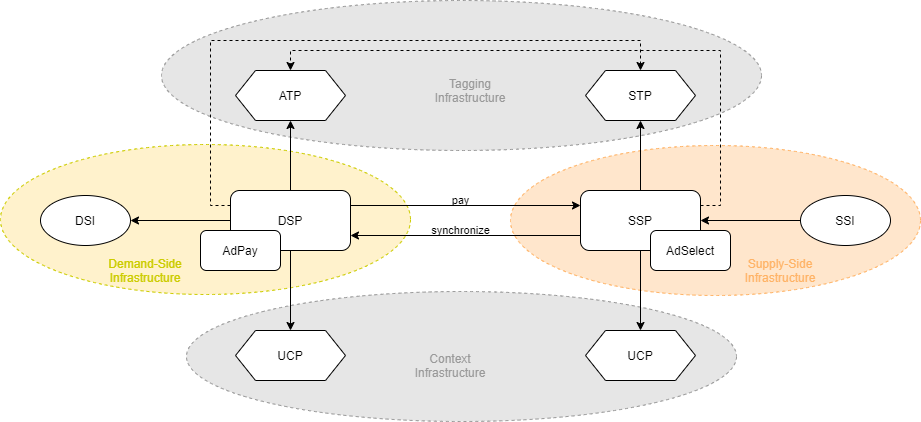
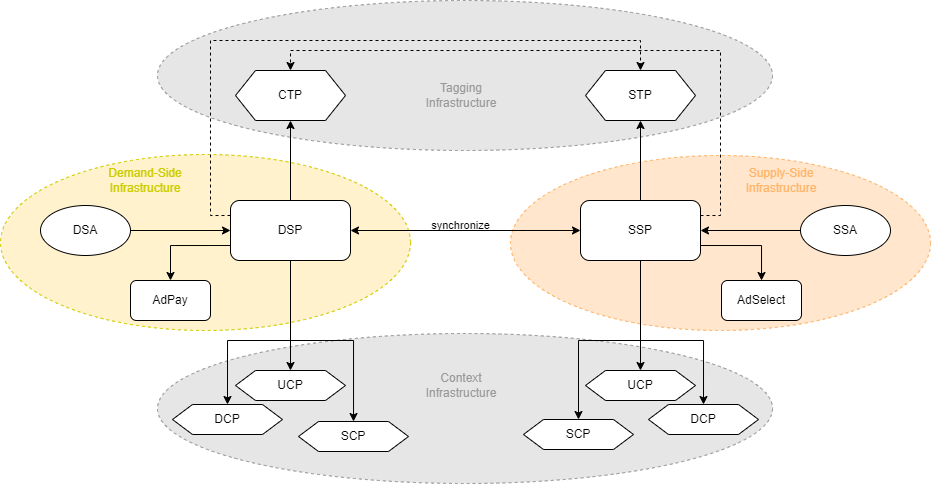
more symmetry & clarity

diff --git a/protocol2/impressions/index2.rst b/protocol2/impressions/index2.rst
@@ -1,0 +1,85 @@
+Impressions
+===========
+
+.. _protocol-impressions:
+
+User navigates to a website or parcel
+-------------------------------------
+
+The following process takes place when a :ref:`User <protocol-definitions-user>` initially navigates to a :ref:`Site <protocol-definitions-site>`:
+
+.. container:: protocol
+
+    * :ref:`SSA <protocol-definitions-ssa>` notifies :ref:`SSP <protocol-definitions-ssp>` about :ref:`Register Event <protocol-definitions-registerevent>`.
+    * In response to the event notification call, :ref:`SSP <protocol-definitions-ssp>` returns its choice of three :ref:`Context Infrastructure <protocol-definitions-contextinfrastructure>` endpoints, i.e. a :ref:`UCP <protocol-definitions-ucp>` endpoint, an :ref:`SCP <protocol-definitions-scp>` endpoint and a :ref:`DCP <protocol-definitions-dcp>` endpoint.
+    * Using the above endpoints, :ref:`SSA <protocol-definitions-ssa>` notifies :ref:`UCP <protocol-definitions-ucp>`, :ref:`SCP <protocol-definitions-scp>` and :ref:`DCP <protocol-definitions-dcp>` about :ref:`Register Event <protocol-definitions-registerevent>`.
+    * In response to the event notification call, each instance of the :ref:`Context Infrastructure <protocol-definitions-contextinfrastructure>` returns its own :ref:`Context Script <protocol-definitions-contextscript>`, and :ref:`SSA <protocol-definitions-ssa>` makes an attempt to execute those scripts within its sandbox.
+
+User browses through a website or parcel
+----------------------------------------
+
+The following process takes place when a :ref:`User <protocol-definitions-user>` browses through a :ref:`Site <protocol-definitions-site>`:
+
+.. container:: protocol
+
+    * :ref:`SSA <protocol-definitions-ssa>` calls :ref:`SSP <protocol-definitions-ssp>` to get a list of :ref:`Creatives <protocol-definitions-creative>` to be displayed in all available :ref:`Placements <protocol-definitions-placement>`.
+    * Prior to generating the requested list, :ref:`SSP <protocol-definitions-ssp>` calls :ref:`Context Infrastructure <protocol-definitions-contextinfrastructure>` to retrieve :ref:`Context Data <protocol-definitions-contextdata>`. Then :ref:`SSP <protocol-definitions-ssp>` replies to :ref:`SSA <protocol-definitions-ssa>` with a list of metadata for :ref:`Creatives <protocol-definitions-creative>`. 
+
+.. note::
+    The list of :ref:`Creatives <protocol-definitions-creative>` is generated by :ref:`SSP <protocol-definitions-ssp>` using information already cached there, without engaging any the :ref:`DSPs <protocol-definitions-dsp>`. This is possible due to the fact that :ref:`SSP <protocol-definitions-ssp>` has already retrieved all the relevant :ref:`Demand-Side Inventories <protocol-definitions-demandinventory>` during the synchronization stage.
+
+Among other things, the metadata for each :ref:`Creative <protocol-definitions-creative>` contains three :ref:`DSP <protocol-definitions-dsp>` endpoints:
+
+.. container:: protocol
+
+    * An endpoint for retrieving :ref:`Creative Content <protocol-definitions-creativecontent>`
+    * An endpoint for notifying about :ref:`View Event <protocol-definitions-viewevent>`
+    * An endpoint for notifying about :ref:`Click Event <protocol-definitions-clickevent>`
+
+This implies that each :ref:`Creative <protocol-definitions-creative>` in the list can be associated with its own :ref:`DSP <protocol-definitions-dsp>`. As a result, :ref:`Creatives <protocol-definitions-creative>` managed by various :ref:`DSPs <protocol-definitions-dsp>` can be displayed next to each other within the same :ref:`Site <protocol-definitions-site>`.
+
+.. note::
+    The above process can be repeated periodically in a loop that ensures that :ref:`Creatives <protocol-definitions-creative>` are swapped periodically within the same :ref:`Placement <protocol-definitions-placement>`. 
+    Such a loop aims to maximize utilization of :ref:`Placements <protocol-definitions-placement>` by displaying multiple :ref:`Creatives <protocol-definitions-creative>` sequentially.
+
+At this stage, metadata for all :ref:`Creatives <protocol-definitions-creative>` is already retrieved, but none of them is rendered, 
+as :ref:`SSA <protocol-definitions-ssa>` has not fetched :ref:`Creative Content <protocol-definitions-creativecontent>` yet. 
+The following sequence of events occurres for each :ref:`Creative <protocol-definitions-creative>` to fetch :ref:`Creative Content <protocol-definitions-creativecontent>` 
+and display it in the designated :ref:`Placement <protocol-definitions-placement>`:
+
+.. container:: protocol
+
+    * Using the endpoint contained in the metadata, :ref:`SSA <protocol-definitions-ssa>` calls :ref:`DSP <protocol-definitions-dsp>` to retrieve :ref:`Creative Content <protocol-definitions-creativecontent>`.
+    * :ref:`SSA <protocol-definitions-ssa>` receives the requested :ref:`Creative Content <protocol-definitions-creativecontent>`.
+    
+Before a :ref:`Creative <protocol-definitions-creative>` is actually rendered, :ref:`SSA <protocol-definitions-ssa>` 
+compares the hash of the received :ref:`Creative Content <protocol-definitions-creativecontent>` with the hash contained in the metadata - 
+to ensure that the :ref:`Creative Content <protocol-definitions-creativecontent>` matches what was initially approved when the :ref:`Campaign <protocol-definitions-campaign>` was launched.
+Assuming the above hashes match, :ref:`SSA <protocol-definitions-ssa>` renders the :ref:`Creative <protocol-definitions-creative>` on the screen, so that the :ref:`User <protocol-definitions-user>` can see it.
+
+The following sequence of events occurres for each :ref:`Creative <protocol-definitions-creative>` to ensure that 
+both :ref:`SSP <protocol-definitions-ssp>` and :ref:`DSP <protocol-definitions-dsp>` are simultaneously notified, so that their states remain synchronized:
+
+.. container:: protocol
+
+    * :ref:`SSA <protocol-definitions-ssa>` notifies :ref:`SSP <protocol-definitions-ssp>` about :ref:`View Event <protocol-definitions-viewevent>`.
+    * Using the endpoint contained in the metadata, :ref:`SSA <protocol-definitions-ssa>` notifies :ref:`DSP <protocol-definitions-dsp>` about :ref:`View Event <protocol-definitions-viewevent>`.
+    * In response to the event notification call, :ref:`DSP <protocol-definitions-dsp>` returns its choice of three :ref:`Context Infrastructure <protocol-definitions-contextinfrastructure>` endpoints, i.e. a :ref:`UCP <protocol-definitions-ucp>` endpoint, an :ref:`SCP <protocol-definitions-scp>` endpoint and a :ref:`DCP <protocol-definitions-dcp>` endpoint.
+
+And finally, :ref:`DSP <protocol-definitions-dsp>`'s :ref:`Context Infrastructure <protocol-definitions-contextinfrastructure>` is updated as well:
+
+.. container:: protocol
+
+    * Using the above endpoints, :ref:`SSA <protocol-definitions-ssa>` notifies :ref:`UCP <protocol-definitions-ucp>`, :ref:`SCP <protocol-definitions-scp>` and :ref:`DCP <protocol-definitions-dcp>` about :ref:`Register Event <protocol-definitions-registerevent>`.
+    * In response to the event notification call, each instance of the :ref:`Context Infrastructure <protocol-definitions-contextinfrastructure>` returns its own :ref:`Context Scripts <protocol-definitions-contextscript>`, and :ref:`SSA <protocol-definitions-ssa>` makes an attempt to execute those scripts within its sandbox.
+
+User clicks on an ad
+--------------------
+
+The following process takes place when a :ref:`User <protocol-definitions-user>` clicks on any of the displayed :ref:`Creatives <protocol-definitions-creative>`, assuming they are clickable:
+
+.. container:: protocol
+
+    * :ref:`SSA <protocol-definitions-ssa>` notifies :ref:`SSP <protocol-definitions-ssp>` about :ref:`Click Event <protocol-definitions-clickevent>`.
+    * Using the endpoint contained in the metadata, :ref:`SSA <protocol-definitions-ssa>` notifies :ref:`DSP <protocol-definitions-dsp>` about :ref:`Click Event <protocol-definitions-clickevent>`.
+    * Using its internal mapping, :ref:`DSP <protocol-definitions-dsp>` redirects the :ref:`Click Event <protocol-definitions-clickevent>` to the :ref:`Target <protocol-definitions-target>`, so that in effect :ref:`User <protocol-definitions-user>` navigates from the :ref:`Site <protocol-definitions-site>` to the :ref:`Target <protocol-definitions-target>`. Optionally, :ref:`DSA <protocol-definitions-dsa>` responds to :ref:`DSP <protocol-definitions-dsp>` to report that a :ref:`Conversion Event <protocol-definitions-conversionevent>` has occurred.

diff --git a/protocol2/impressions/index.rst b/protocol2/impressions/index.rst
@@ -3,8 +3,8 @@ Impressions
 
 .. _protocol-impressions:
 
-User navigates to Site
-----------------------
+User navigates to a website or parcel
+-------------------------------------
 
 The following process takes place when a :ref:`User <protocol-definitions-user>` initially navigates to a :ref:`Site <protocol-definitions-site>`:
 
@@ -15,8 +15,8 @@ The following process takes place when a :ref:`User <protocol-definitions-user>`
     * Using the above endpoints, :ref:`SSA <protocol-definitions-ssa>` notifies :ref:`Context Infrastructure <protocol-definitions-contextinfrastructure>` about the :ref:`Register Event <protocol-definitions-registerevent>`.
     * In response to the event notification call, each instance of the :ref:`Context Infrastructure <protocol-definitions-contextinfrastructure>` returns its own :ref:`Context Script <protocol-definitions-contextscript>`, and :ref:`SSA <protocol-definitions-ssa>` makes an attempt to execute those scripts within its sandbox.
 
-User browses through Site
--------------------------
+User browses through a website or parcel
+----------------------------------------
 
 The following process takes place when a :ref:`User <protocol-definitions-user>` browses through a :ref:`Site <protocol-definitions-site>`:
 
@@ -24,6 +24,9 @@ The following process takes place when a :ref:`User <protocol-definitions-user>`
 
     * :ref:`SSA <protocol-definitions-ssa>` calls :ref:`SSP <protocol-definitions-ssp>` to get a list of :ref:`Creatives <protocol-definitions-creative>` to be displayed in all available :ref:`Placements <protocol-definitions-placement>`.
     * Prior to generating the requested list, :ref:`SSP <protocol-definitions-ssp>` calls :ref:`Context Infrastructure <protocol-definitions-contextinfrastructure>` to retrieve :ref:`Context Data <protocol-definitions-contextdata>`. Then :ref:`SSP <protocol-definitions-ssp>` replies to :ref:`SSA <protocol-definitions-ssa>` with a list of metadata for :ref:`Creatives <protocol-definitions-creative>`. 
+
+.. note::
+    The list of :ref:`Creatives <protocol-definitions-creative>` is generated by :ref:`SSP <protocol-definitions-ssp>` using information already cached there, without engaging any the :ref:`DSPs <protocol-definitions-dsp>`. This is possible due to the fact that :ref:`SSP <protocol-definitions-ssp>` has already retrieved all the relevant :ref:`Demand-Side Inventories <protocol-definitions-demandinventory>` during the synchronization stage.
 
 Among other things, the metadata for each :ref:`Creative <protocol-definitions-creative>` contains three :ref:`DSP <protocol-definitions-dsp>` endpoints:
 
@@ -34,9 +37,6 @@ Among other things, the metadata for each :ref:`Creative <protocol-definitions-c
     * An endpoint for notifying that a :ref:`Click Event <protocol-definitions-clickevent>` has occurred
 
 This implies that each :ref:`Creative <protocol-definitions-creative>` in the list can be associated with its own :ref:`DSP <protocol-definitions-dsp>`. As a result, :ref:`Creatives <protocol-definitions-creative>` managed by various :ref:`DSPs <protocol-definitions-dsp>` can be displayed next to each other within the same :ref:`Site <protocol-definitions-site>`.
-
-.. note::
-    This part of the process is based on information cached in :ref:`SSP <protocol-definitions-ssp>`, without engaging any :ref:`DSP <protocol-definitions-dsp>`. This is possible due to the fact that :ref:`SSP <protocol-definitions-ssp>` “knows” the currently available :ref:`Demand-Side Inventory <protocol-definitions-demandinventory>`, as this information has already been retrieved during the synchronization stage.
 
 .. note::
     The above process can be repeated periodically in a loop that ensures that :ref:`Creatives <protocol-definitions-creative>` are swapped periodically within the same :ref:`Placement <protocol-definitions-placement>`. 
@@ -58,8 +58,8 @@ and both :ref:`SSP <protocol-definitions-ssp>` and :ref:`DSP <protocol-definitio
     * Using the above endpoints, :ref:`SSA <protocol-definitions-ssa>` notifies :ref:`Context Infrastructure <protocol-definitions-contextinfrastructure>` about a :ref:`Register Event <protocol-definitions-registerevent>`.
     * In response to the event notification call, each instance of the :ref:`Context Infrastructure <protocol-definitions-contextinfrastructure>` returns its own :ref:`Context Scripts <protocol-definitions-contextscript>`, and :ref:`SSA <protocol-definitions-ssa>` makes an attempt to execute those scripts within its sandbox.
 
-User clicks on a Creative
--------------------------
+User clicks on an ad
+--------------------
 
 The following process takes place when a :ref:`User <protocol-definitions-user>` clicks on any of the displayed :ref:`Creatives <protocol-definitions-creative>`, assuming they are clickable:
 

diff --git a/protocol2/synchronization/index.rst b/protocol2/synchronization/index.rst
@@ -3,7 +3,7 @@ Synchronization
 
 .. _protocol-synchronization:
 
-To be able to interact with each other, :ref:`AdServers <protocol-definitions-adserver>` need to inform other :ref:`AdServers <protocol-definitions-adserver>` about their availablity and their offering. 
+To be able to interact with each other, an :ref:`AdServer <protocol-definitions-adserver>` needs to inform other :ref:`AdServers <protocol-definitions-adserver>` about its availablity and its current offering. 
 This information sharing is done by broadcasting via :ref:`Adshares Blockchain <protocol-definitions-blockchain>` a URL pointing to JSON-based metadata.
 
 The URL is published on :ref:`Adshares Blockchain <protocol-definitions-blockchain>` in the form of an uppercase hexadecimal string.

diff --git a/protocol2/index.rst b/protocol2/index.rst
@@ -13,7 +13,7 @@ Adshares Protocol2
 .. Check out the :doc:`Lorem Ipsum <definitions/index>` section for further information, 
 .. including how to :ref:`lorem ipsum <protocol-definitions-viewevent>` the project.
 
-.. .. image:: index.png
+.. image:: index.png
 
 Contents
 ^^^^^^^^
@@ -23,5 +23,5 @@ Contents
     definitions/index
     scope/index
     synchronization/index
-    impressions/index
+    impressions/index2
     payments/index
